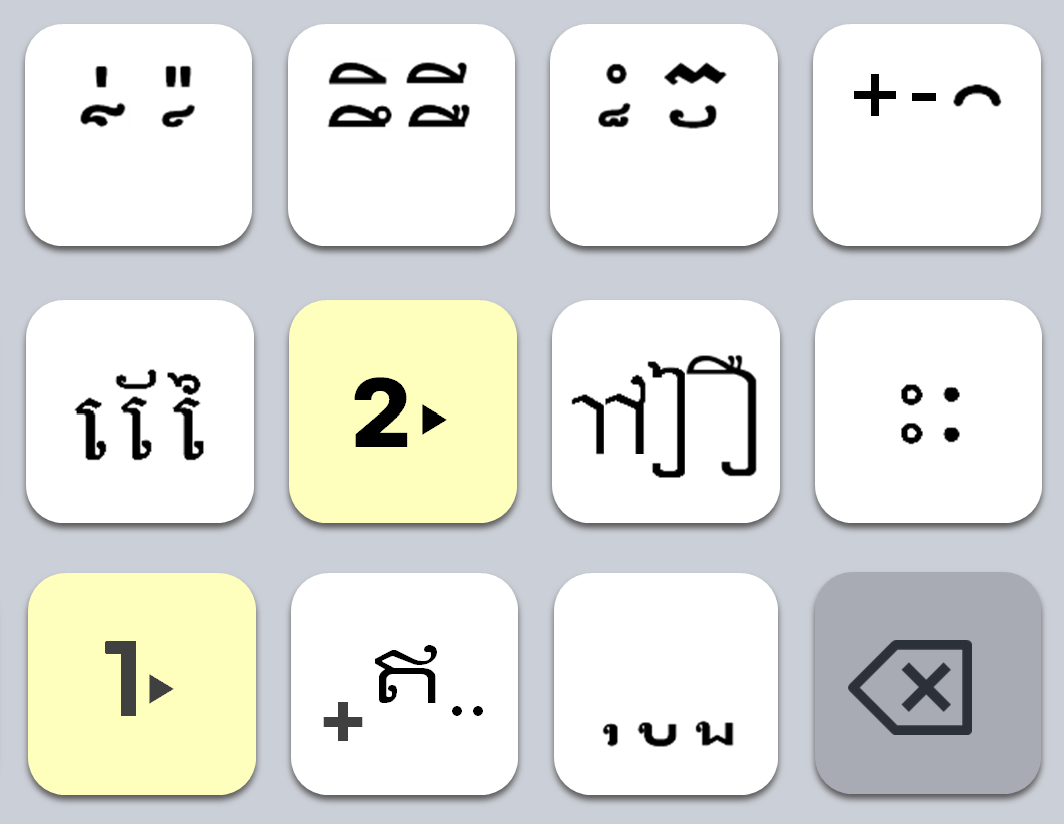
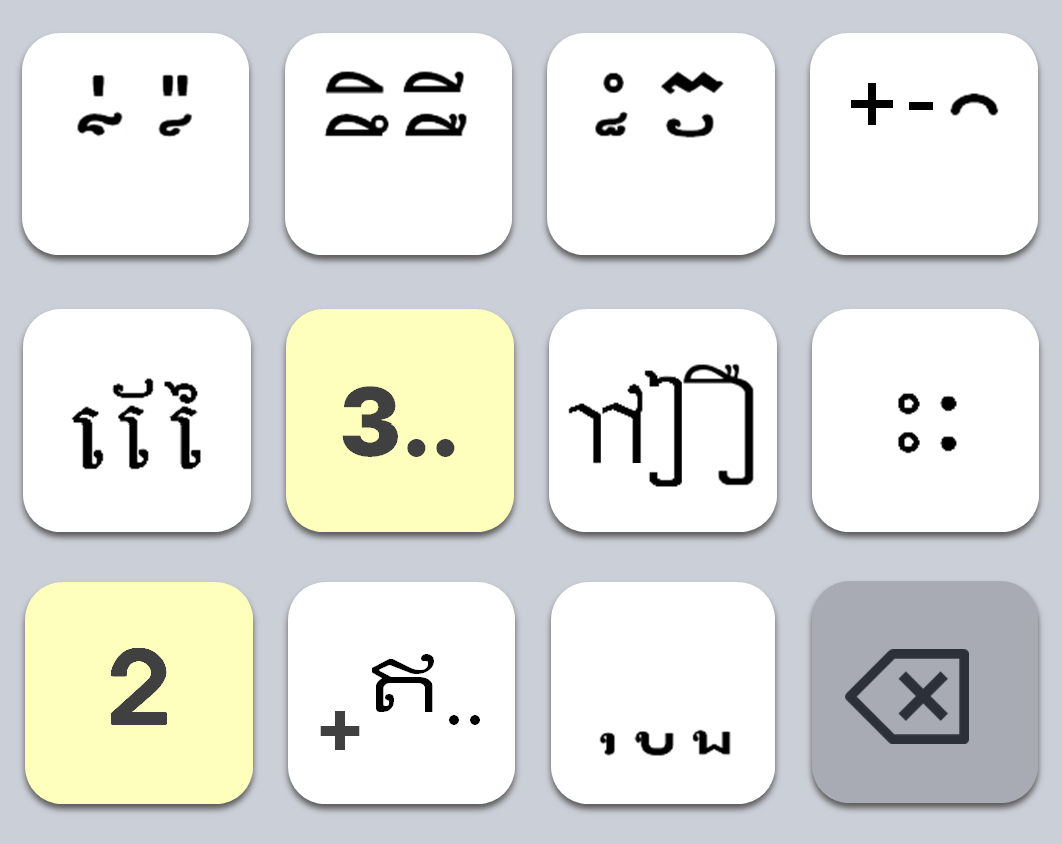
Add files via upload

diff --git a/index.html b/index.html
@@ -47,11 +47,11 @@
                 <img src="images/how2step.png" alt="ဗျည်းရိုက်နှိပ်ပုံစံ" class="w-full rounded-xl border border-gray-100 shadow-sm">
             </div>
             <div class="md:w-1/2">
-                <h3 class="text-2xl font-bold mb-6 text-gray-800">ការវាយព្យញ្ជនៈ: 1▸Next Key / 2▸Next Key</h3>
+                <h3 class="text-2xl font-bold mb-6 text-gray-800">ការវាយព្យញ្ជនៈ: 2 Key / 3.. Key</h3>
                 <ul class="space-y-4 text-gray-600">
                     <li class="flex items-start">
                         <span class="text-blue-500 mr-3 mt-1">✓</span>
-                        <span>ព្យញ្ជនៈជួរទី២ដល់ទី៤នៅក្នុងតារាងព្យញ្ជនៈ អាចវាយបញ្ចូលបានដោយ<strong>ចុចប៊ូតុងមូលដ្ឋាន រួចប្តូរដោយប៊ូតុង Next</strong>។</span>
+                        <span>ព្យញ្ជនៈជួរទី២ដល់ទី៤នៅក្នុងតារាងព្យញ្ជនៈ អាចវាយបញ្ចូលបានដោយ<strong>ចុចប៊ូតុងមូលដ្ឋាន រួចប្តូរដោយប៊ូតុង 2/3..</strong>។</span>
                     </li>
                     <li class="flex items-start">
                         <span class="text-blue-500 mr-3 mt-1">✓</span>

diff --git a/mobile_demo.html b/mobile_demo.html
@@ -635,7 +635,7 @@ function render() {
           // idx != 0이면 chars 빈 채로 → '1▶' 표시 (비활성 힌트)
         }
         const b = makeOverlayBtn('kbd-next', style, () => handleNext());
-        b.textContent = chars.length > 0 ? chars.join('') : '1▶';
+        b.textContent = chars.length > 0 ? chars.join('') : '2';
         kbd.appendChild(b);
 
       } else if (rk.type === 'onext') {
@@ -650,7 +650,7 @@ function render() {
           }
         }
         const b = makeOverlayBtn('kbd-onext', style, () => handleONext());
-        b.textContent = chars.length > 0 ? chars.join('') : '2▶';
+        b.textContent = chars.length > 0 ? chars.join('') : '3‥';
         kbd.appendChild(b);
 
       } else if (rk.type === 'bs') {
